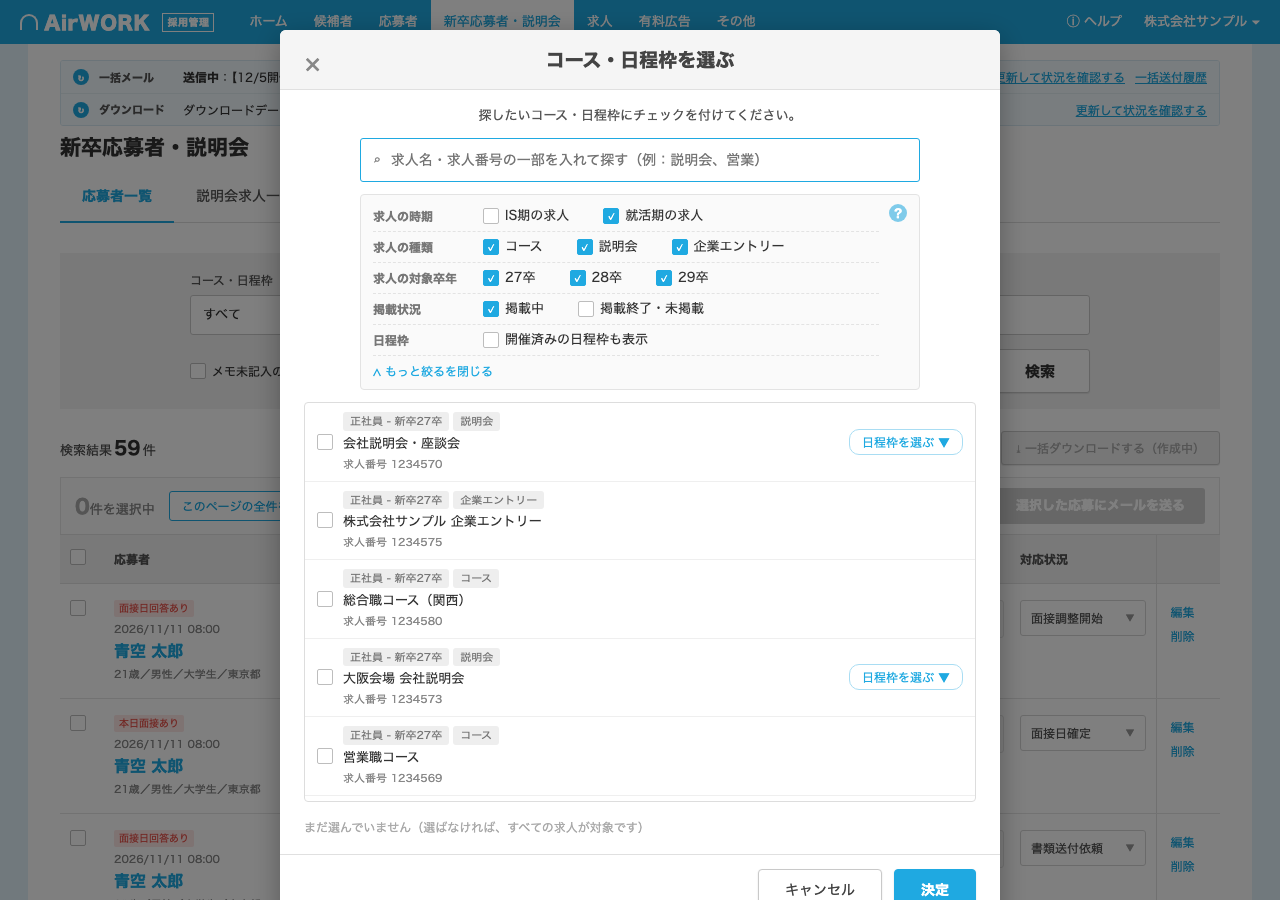
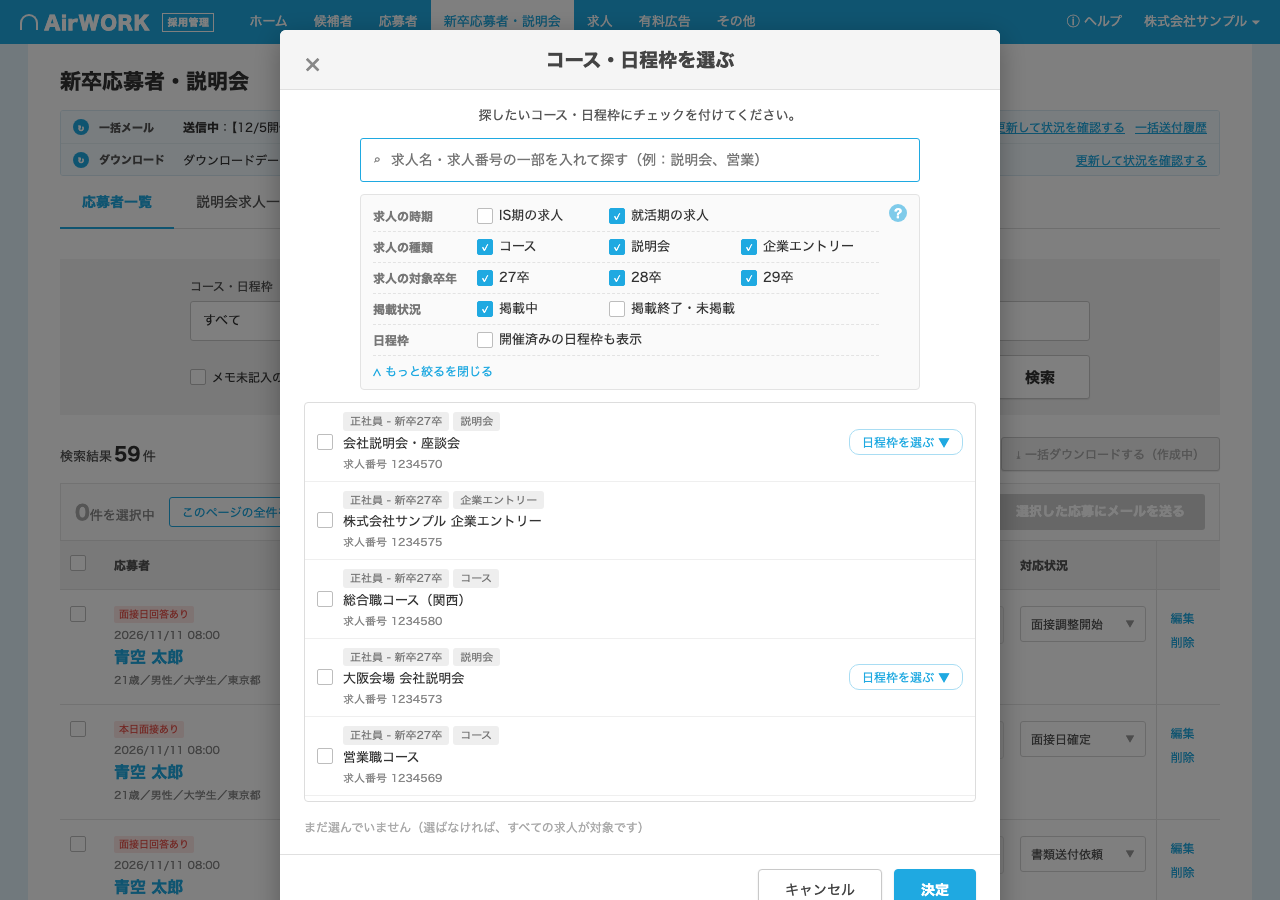
絞り込みの枠のチェックボックスを、行をまたいで列にそろえる

diff --git a/style.css b/style.css
@@ -357,6 +357,9 @@ body.dirty table, body.dirty .pager, body.dirty .pinfo, body.dirty .empty { opac
 .frow .cb { display: inline-flex; align-items: center; gap: 6px; cursor: pointer; }
 .frow .cb.dis { opacity: .35; cursor: default; }
 .fbox .ftip { position: absolute; right: 12px; top: 9px; margin: 0; }
+.fbox .frow { display: grid; grid-template-columns: 92px repeat(3, 120px); column-gap: 12px; row-gap: 6px; }
+.fbox .frow .cb { white-space: nowrap; }
+.fbox .frow label.cb:nth-of-type(3n+1) { grid-column: 2; }
 .mtop { width: 560px; margin: 0 auto; }
 .mtop .desc { text-align: center; margin-left: -56px; margin-right: -56px; }
 .fbox .morelk { display: inline-block; font-size: 12px; padding: 6px 0 3px; border-top: 1px dashed #E3E3E3; width: 100%; }
